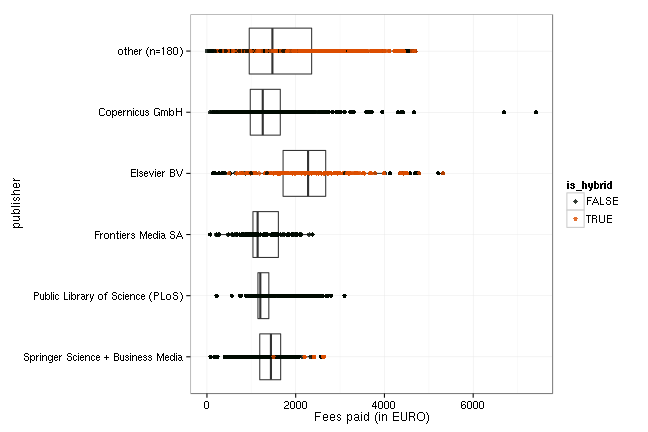
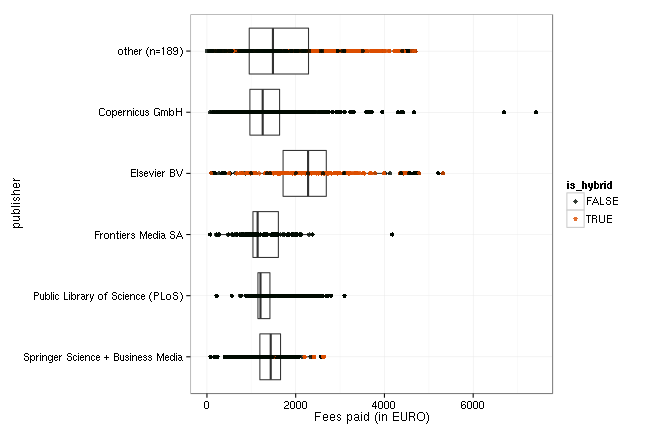
post: chemnitz data update 2015

diff --git a/about.md b/about.md
@@ -66,13 +66,13 @@ The data content covers APCs as paid for by our central budget for the Max Planc
 
 Information on both open access journal articles and open access publication of articles in toll-access journals ("hybrid") are provided.
 
-In total,  16 274 016 € for  10 374 articles were paid by the participating unviversities. Average  fee is 1 568.7 € and the median 1 386 €.
+In total,  16 840 966 € for  10 756 articles were paid by the participating unviversities. Average  fee is 1 565.7 € and the median 1 386 €.
 
 ### Open Access Journals
 
 
 
-At the moment, the dataset releases information on 7 746 articles in open access journals which charge publication fees. Total expenditure amounts to  10 029 284 €. Average  fee is 1 294.8 € and the median 1 228 €.
+At the moment, the dataset releases information on 8 120 articles in open access journals which charge publication fees. Total expenditure amounts to  10 573 960 €. Average  fee is 1 302.2 € and the median 1 234 €.
 
 View dataset on [GitHub](https://github.com/OpenAPC/openapc-de/blob/master/data/apc_de.csv).
 
@@ -90,7 +90,7 @@ View dataset on [GitHub](https://github.com/OpenAPC/openapc-de/blob/master/data/
 |FZJ - ZB                                    |      158|            196869|          1246|   1177|
 |GFZ-Potsdam                                 |      106|            126520|          1194|   1065|
 |Giessen U                                   |      243|            326082|          1342|   1247|
-|Goettingen U                                |      313|            409930|          1310|   1285|
+|Goettingen U                                |      650|            883918|          1360|   1354|
 |Hamburg TUHH                                |       24|             32789|          1366|   1466|
 |Hannover U                                  |       69|             90259|          1308|   1241|
 |Heidelberg U                                |      215|            308348|          1434|   1500|
@@ -99,13 +99,13 @@ View dataset on [GitHub](https://github.com/OpenAPC/openapc-de/blob/master/data/
 |KIT                                         |      428|            524346|          1225|   1239|
 |Konstanz U                                  |      223|            304182|          1364|   1342|
 |Leibniz-Fonds                               |       26|             40800|          1569|   1522|
-|Leipzig U                                   |      168|            236376|          1407|   1481|
-|MDC                                         |       23|             41464|          1803|   1212|
+|Leipzig U                                   |      173|            243873|          1410|   1471|
+|MDC                                         |       51|            103028|          2020|   1483|
 |MPG                                         |     2816|           3597571|          1278|   1161|
 |Muenchen LMU                                |      365|            463491|          1270|   1299|
 |Potsdam U                                   |       24|             32128|          1339|   1386|
 |Regensburg U                                |      400|            503845|          1260|   1207|
-|TU Chemnitz                                 |       36|             37826|          1051|   1142|
+|TU Chemnitz                                 |       40|             39454|           986|   1056|
 |TU Clausthal                                |        8|              6999|           875|    918|
 |TU Dresden                                  |      130|            175723|          1352|   1415|
 |TU Ilmenau                                  |       13|             13053|          1004|    986|
@@ -117,7 +117,7 @@ View dataset on [GitHub](https://github.com/OpenAPC/openapc-de/blob/master/data/
 
 
 In many toll-access journals some of the articles are open access after a fee has been paid. This model is often called "hybrid open access".
-The dataset covers 2 628 hybrid open access articles. Total expenditure amounts to  6 244 732 €. Average  fee is 2 376.2 € and the median 2 455 €.
+The dataset covers 2 636 hybrid open access articles. Total expenditure amounts to  6 267 006 €. Average  fee is 2 377.5 € and the median 2 466 €.
 
 The following institutions have contributed its expenditures for hybrid open access.
 
@@ -126,8 +126,9 @@ The following institutions have contributed its expenditures for hybrid open acc
 |:-------------------------------------------|--------:|-----------------:|-------------:|------:|
 |FWF - Austrian Science Fund                 |     2575|           6156891|          2391|   2516|
 |INM - Leibniz-Institut für Neue Materialien |        2|              4239|          2119|   2119|
-|MDC                                         |       11|             20054|          1823|   1382|
+|MDC                                         |       18|             42227|          2346|   1996|
 |MPG                                         |       40|             63548|          1589|   1669|
+|TU Chemnitz                                 |        1|               100|           100|    100|
 
 ## Use of external sources
 

diff --git a/_posts/2016-05-17-chemnitz.md b/_posts/2016-05-17-chemnitz.md
@@ -1,0 +1,57 @@
+---
+layout:     post
+author:     Christoph Broschinski
+title:      TU Chemnitz updates its 2015 APC expenditures
+date:       2016-05-17 10:00:00
+summary:    
+categories: [general, openAPC]
+comments: true
+---
+
+
+
+
+The [TU Chemnitz](https://www.tu-chemnitz.de/) has updated its APC expenditures. The latest contribution provides additional data for the 2015 period.
+
+[Chemnitz University Library](https://www.tu-chemnitz.de/ub/index.html.en) is in charge of the [University's Open Access Publishing Fund](https://www.tu-chemnitz.de/ub/publizieren/openaccess/publikationsfonds.html), which is supported by the DFG under its [Open-Access Publishing Programme](http://www.dfg.de/en/research_funding/programmes/infrastructure/lis/funding_opportunities/open_access_publishing/index.html).
+
+Contact person is [Ute Blumtritt](mailto:ute.blumtritt@bibliothek.tu-chemnitz.de)
+
+## Cost Data
+
+
+
+The new dataset extends Chemnitz's contribution for the last year to 26 articles. Total 2015 expenditure amounts to 22 113€ and the average fee is 850€.
+
+The following table shows the payments [Chemnitz University Library](https://www.tu-chemnitz.de/ub/index.html.en) has made to publishers in 2015.
+
+
+|                                                                    | Articles| Fees paid in EURO| Mean Fee paid|
+|:-------------------------------------------------------------------|--------:|-----------------:|-------------:|
+|Frontiers Media SA                                                  |        5|              8366|          1673|
+|Public Library of Science (PLoS)                                    |        4|              5740|          1435|
+|Canadian Center of Science and Education                            |        3|               883|           294|
+|Springer Nature                                                     |        2|              2486|          1243|
+|MDPI AG                                                             |        2|              2783|          1391|
+|International Union of Crystallography (IUCr)                       |        2|               331|           165|
+|International Journal of Engineering Sciences & Research Technology |        2|               168|            84|
+|Elsevier BV                                                         |        2|               499|           250|
+|Copernicus GmbH                                                     |        2|               357|           178|
+|Rheinisch-Westfaelische Technische Hochschule Aachen                |        1|               350|           350|
+|Index Copernicus                                                    |        1|               150|           150|
+
+## Overview
+
+With the recent contributions included, the overall APC data for TU Chemnitz now looks as follows: 
+
+### Fees paid per publisher (in EURO)
+
+![plot of chunk tree_chemnitz_2016-05-17](/figure/tree_chemnitz_2016-05-17-1.png) 
+
+###  Average costs per year (in EURO)
+
+![plot of chunk box_chemnitz_year_2016-05-17](/figure/box_chemnitz_year_2016-05-17-1.png) 
+
+###  Average costs per publisher (in EURO)
+
+![plot of chunk box_chemnitz_publisher_2016-05-17](/figure/box_chemnitz_publisher_2016-05-17-1.png) 
